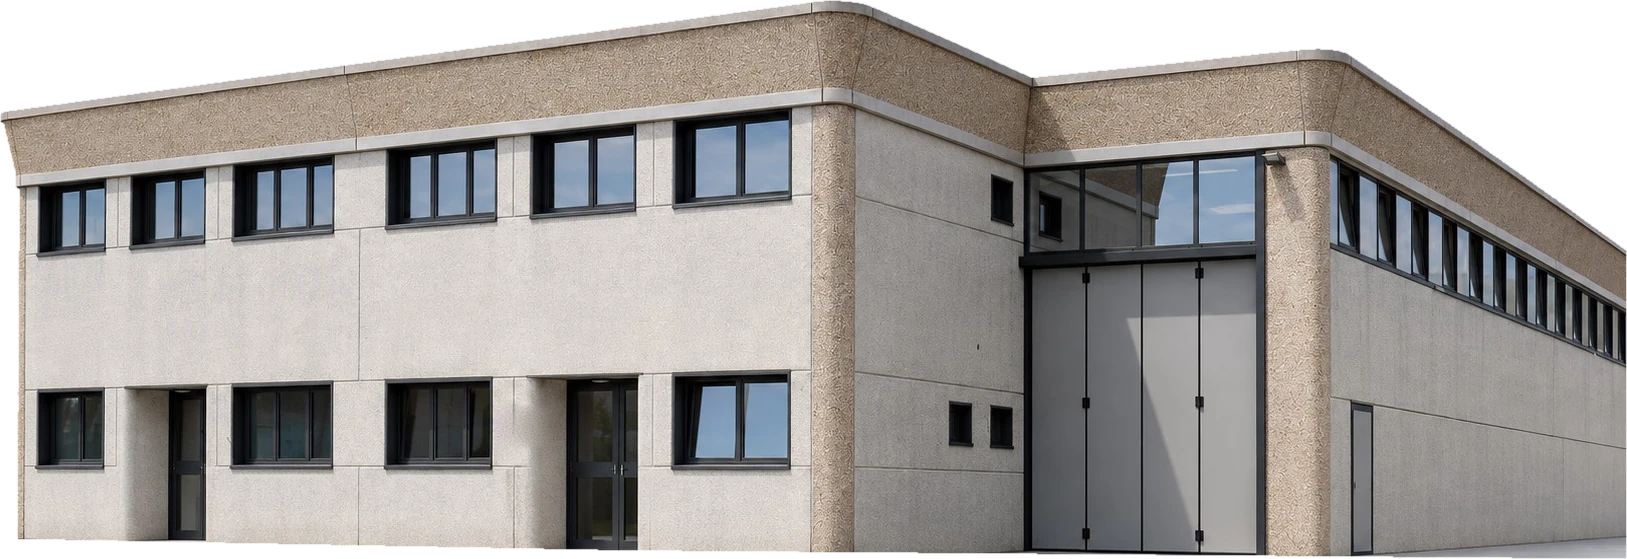
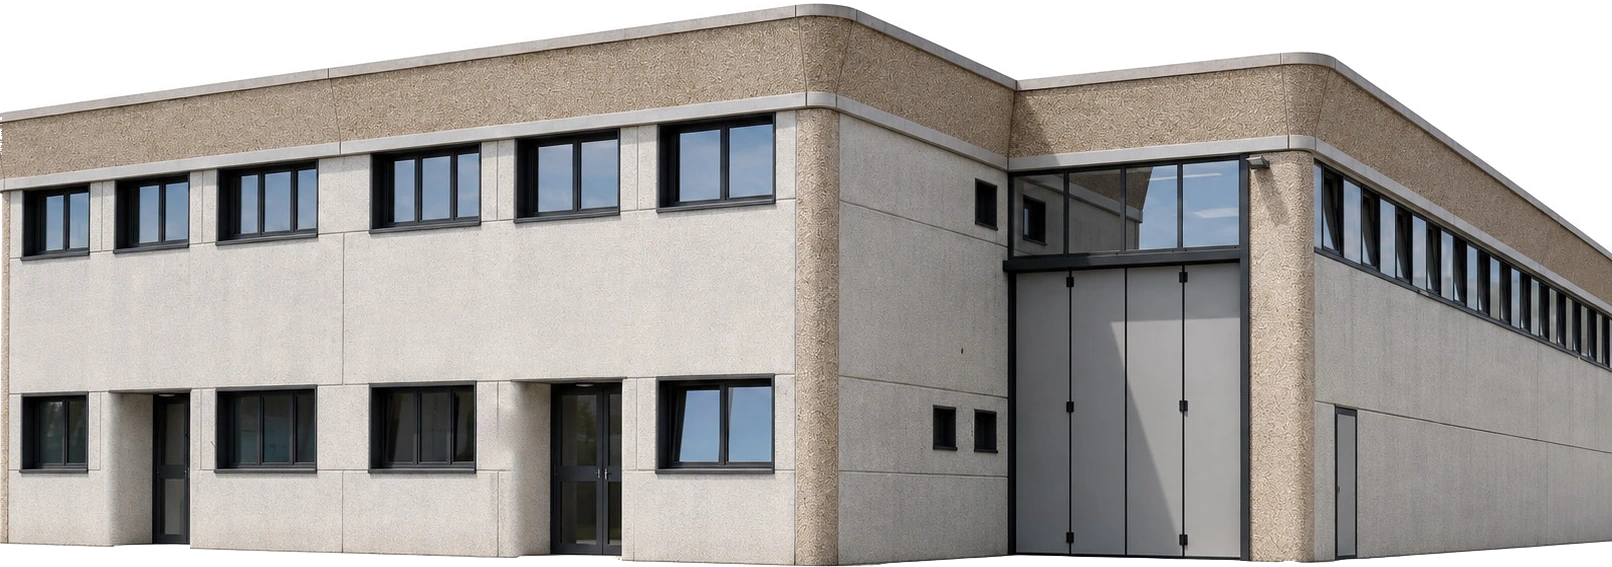
Il piede e il profilo della sagoma, tagliati come si deve
Il ritaglio di prima era grossolano in due modi.

Sul contorno avevo buttato via l'antialiasing del render — maschera
netta, erosa di due pixel e risfumata a mano — e il bordo tornava a
scaletta: il filo del coronamento sembrava rosicchiato. Ora l'alpha e'
la copertura vera del pixel, ricavata da I = a*F + (1-a)*B con il fondo
preso dal bianco piu' vicino e il pieno dal muro piu' vicino. Il profilo
che il render aveva gia' calcolato resta intatto, e sul bordo il bianco
mescolato viene sottratto invece che coperto.

Sul fondo seguivo una retta, e in luminanza il piede del muro e il bordo
dell'ombra sul piazzale si somigliano: sull'ala destra il taglio correva
dodici pixel sotto il muro e si portava dietro una fetta di piazzale in
ombra. Il piede vero ha invece un segno che non manca mai, la riga
d'ombra al contatto: e' il punto piu' scuro della fascia, e subito sotto
la luce risale. Taglio dove risale a meta' strada, colonna per colonna,
a frazione di pixel. Sotto le vetrate quel segno non c'e' — sopra il
minimo e' buio quanto lui — e quelle colonne le ricavo dai vicini.

Cosi' la sagoma segue la pianta vera: la rientranza della porta a
sinistra resta uno scalino netto, il portone sezionale poggia sulla sua
soglia, e l'ala destra sta sul filo del muro. Niente intaccature, niente
gradini di un pixel, niente frangia bianca a sinistra.

diff --git a/azienda.html b/azienda.html
@@ -62,7 +62,7 @@
 <section class="page-statement">
   
   <div class="reveal"><p class="copy">Il nostro lavoro comincia dove finisce la lavorazione meccanica. Il truciolo esce dalla macchina utensile carico di lubrorefrigerante: i nostri sistemi lo separano, recuperano il fluido e restituiscono uno sfrido asciutto, pronto per essere valorizzato. Da vent’anni progettiamo e costruiamo centrifughe, impianti di trattamento e trituratori per officine meccaniche, tornerie automatiche e reparti galvanici.</p></div>
-</section><section class="media-sagoma"><div class="reveal"><img loading="lazy" alt="La sede Fase a Tezze sul Brenta" src="assets/img/sede-fase.webp" width="1627" height="559"></div></section>
+</section><section class="media-sagoma"><div class="reveal"><img loading="lazy" alt="La sede Fase a Tezze sul Brenta" src="assets/img/sede-fase.webp" width="1612" height="567"></div></section>
 <section class="split-section">
   <div class="grid-container"><div class="split-list">
     <article class="split-block">
